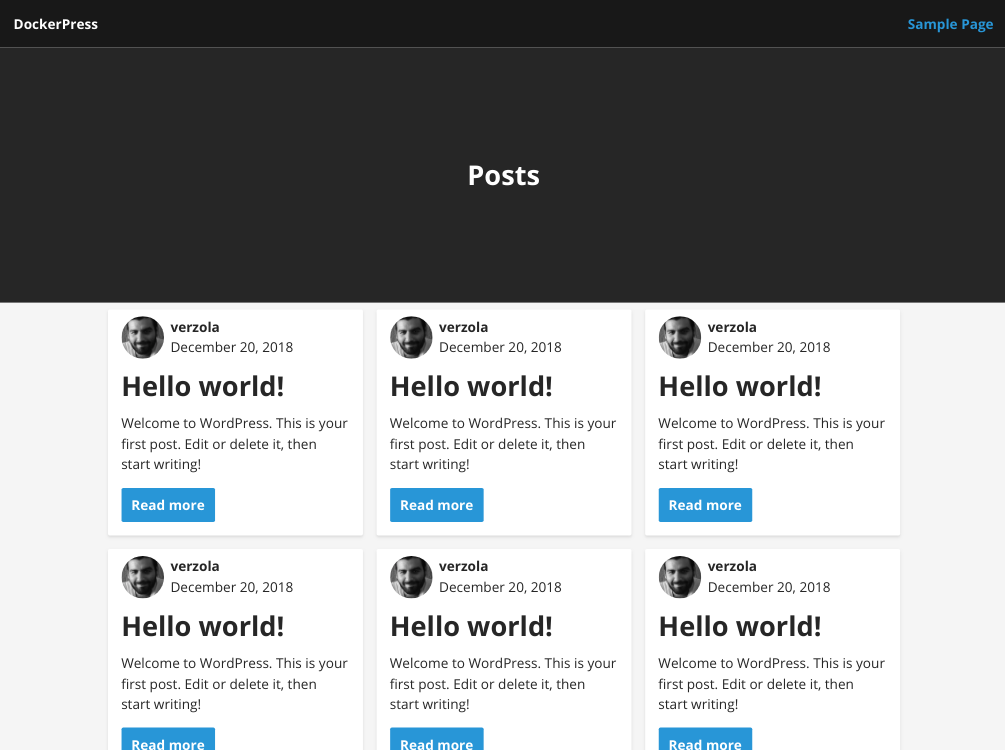
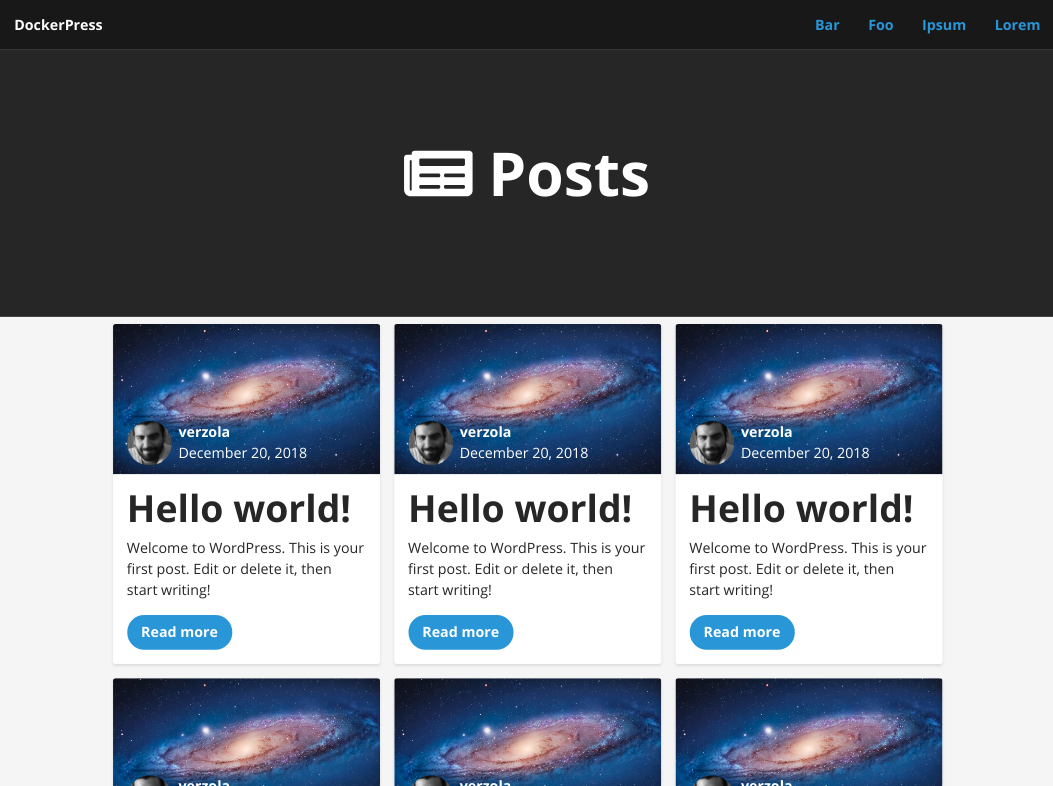
format code, update screenshot and vertical rhythm tweaks

diff --git a/app/themes/base/src/scss/base/_typography.scss b/app/themes/base/src/scss/base/_typography.scss
@@ -2,56 +2,58 @@
  * Basic typography style for copy text
  */
 
-html {
+html,
+.root {
   font-size: 16px;
   line-height: 24px;
 }
 
-body {
+body,
+.article {
   color: $text-color;
   font-family: $text-font-stack;
-  font-size: 1em;
-  line-height: 1.5em;
+  font-size: 1rem;
+  line-height: 1.5rem;
 }
 
 h1,
 .h1 {
-  font-size: 4.25rem;
-  line-height: 4.5rem;
-  margin-bottom: 3rem;
+  font-size: 2.75rem;
+  line-height: 3rem;
   margin-top: 1.5rem;
+  margin-bottom: 3rem;
 }
 
 h2,
 .h2 {
-  font-size: 2.625rem;
+  font-size: 1.9375rem;
   line-height: 3rem;
-  margin-bottom: 1.5rem;
   margin-top: 1.5rem;
+  margin-bottom: 1.5rem;
 }
 
 h3,
 .h3 {
-  font-size: 1.625rem;
-  line-height: 3rem;
-  margin-bottom: 0;
+  font-size: 1.375rem;
+  line-height: 1.5rem;
   margin-top: 1.5rem;
+  margin-bottom: 0;
 }
 
 h4,
 .h4 {
   font-size: 1rem;
   line-height: 1.5rem;
-  margin-bottom: 0;
   margin-top: 1.5rem;
+  margin-bottom: 0;
 }
 
 h5,
 .h5 {
   font-size: 1rem;
   line-height: 1.5rem;
-  margin-bottom: 0;
   margin-top: 1.5rem;
+  margin-bottom: 0;
 }
 
 p,
@@ -60,18 +62,19 @@ ol,
 pre,
 table,
 blockquote {
-  margin-bottom: 1.5rem;
   margin-top: 0;
+  margin-bottom: 1.5rem;
 }
 
 ul ul,
 ol ol,
 ul ol,
 ol ul {
-  margin-bottom: 0;
   margin-top: 0;
+  margin-bottom: 0;
 }
 
+/* Let's make sure all's aligned */
 hr,
 .hr {
   border: 1px solid;

diff --git a/app/themes/base/src/js/index.js b/app/themes/base/src/js/index.js
@@ -1,10 +1,10 @@
 import "../scss/main.scss";
 import $ from "jquery";
-import '@fortawesome/fontawesome-free/js/all.js';
+import "@fortawesome/fontawesome-free/js/all.js";
 
 $(document).ready(() => console.log("hello world"));
 
-$('.hamburger').click(function() {
-  $(this).toggleClass('is-active');
-  $('.l-header__nav').toggleClass('l-header__nav--open');
+$(".hamburger").click(function() {
+  $(this).toggleClass("is-active");
+  $(".l-header__nav").toggleClass("l-header__nav--open");
 });

diff --git a/app/themes/base/src/scss/main.scss b/app/themes/base/src/scss/main.scss
@@ -22,7 +22,7 @@ $hamburger-hover-use-filter: false;
 $hamburger-hover-filter: opacity(50%);
 $hamburger-active-hover-filter: $hamburger-hover-filter;
 $hamburger-types: (squeeze);
-@import '~hamburgers/_sass/hamburgers/hamburgers.scss';
+@import "~hamburgers/_sass/hamburgers/hamburgers.scss";
 
 // 3. Base stuff
 @import "base/base";

diff --git a/app/themes/base/src/scss/layout/_header.scss b/app/themes/base/src/scss/layout/_header.scss
@@ -44,14 +44,13 @@
         display: block;
 
         &:hover {
-          background: rgba(#fff, .1);
+          background: rgba(#fff, 0.1);
         }
       }
 
       ul {
         flex-direction: column;
       }
-
     }
   }
 
@@ -79,5 +78,4 @@
       color: #fff;
     }
   }
-
 }

diff --git a/app/themes/base/src/scss/components/_card.scss b/app/themes/base/src/scss/components/_card.scss
@@ -31,7 +31,7 @@
   h4,
   h5,
   h6 {
-    margin: .5rem 0;
+    margin: 0.5rem 0;
   }
 
   p {

diff --git a/app/themes/base/index.php b/app/themes/base/index.php
@@ -11,6 +11,7 @@
         <?php if ( have_posts() ) : while ( have_posts() ) : the_post() ?>
 
             <article class="c-card c-grid__item">
+                <?php if (has_post_thumbnail()): ?>
                 <div class="c-card__image">
                     <?php the_post_thumbnail('medium', ['class' => 'c-card__image']) ?>
 
@@ -22,10 +23,21 @@
                         <time class="c-card__time"><?php the_time( get_option( 'date_format' ) ) ?></time>
                     </div>
                 </div>
+                <?php endif ?>
 
                 <div class="c-card__content">
                     <header>
+
                         <h2 class="c-card__title"><?php the_title() ?></h2>
+                        <?php if (!has_post_thumbnail()): ?>
+                            <div class="c-author clearfix">
+                                <img class="c-author__photo" src="<?php echo get_avatar_url(get_the_author_meta('ID')) ?>" />
+
+                                <div class="c-author__name"><?php the_author() ?></div>
+
+                                <time class="c-card__time"><?php the_time( get_option( 'date_format' ) ) ?></time>
+                            </div>
+                        <?php endif ?>
                     </header>
 
                     <div class="c-card__excerpt"><?php the_excerpt() ?></div>

diff --git a/app/themes/base/404.php b/app/themes/base/404.php
@@ -8,7 +8,6 @@
     <?php wp_head() ?>
 </head>
 <body class="page-not-found">
-
     <h1>404</h1>
     <h2>Not found <span>:(</span></h2>
     <p>Sorry, but the page you are trying to view does not exist.</p>
